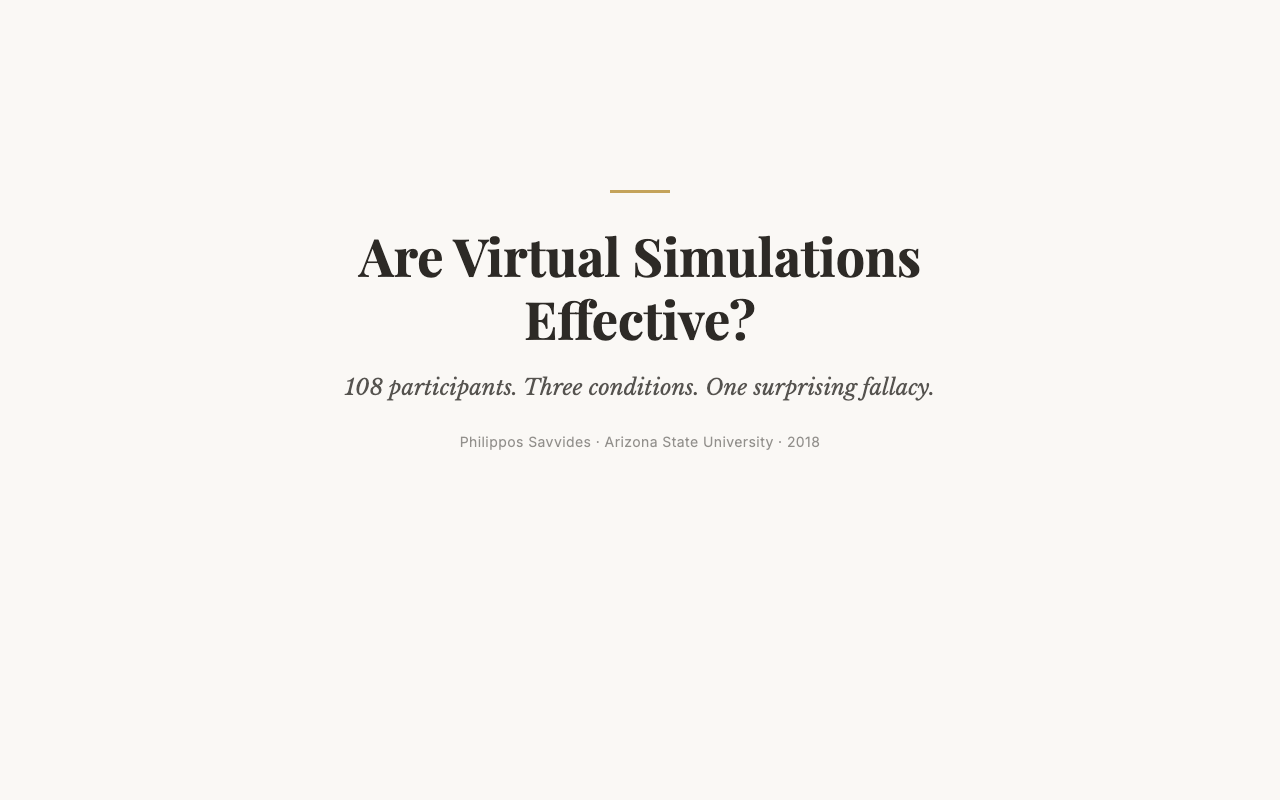
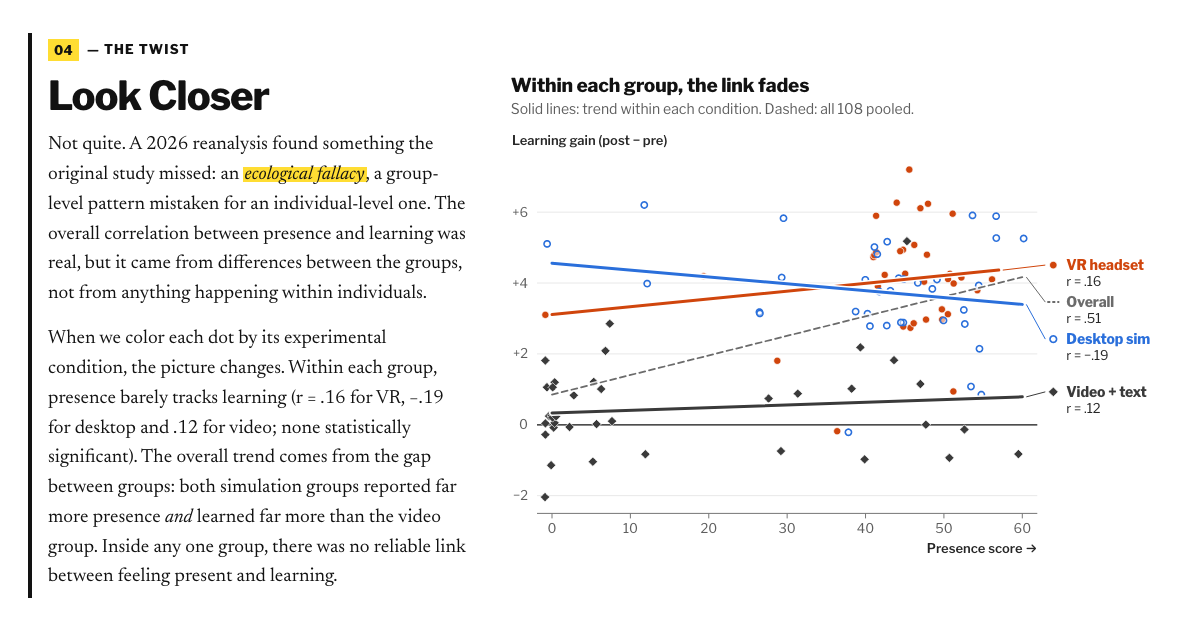
docs: v3.0.0 docs, CI test job, regenerated images
- CI: add a Playwright `test` job (Node 24, chromium + webkit, report uploaded on
  failure); lychee skips node_modules; the config writes an HTML report under CI
- README, HOW-IT-WAS-MADE, CLAUDE.md and CHANGELOG describe the Newsroom redesign
- scripts/screenshots.js renders docs/screenshot.png (1440x900) and
  docs/social-preview.png (1200x630) at step 4
- tests/repo.spec.js: image sizes, CI job, docs content, tracked-file hygiene and a
  dead-code sweep (CSS selectors, script.js functions)
- style.css: drop the unused h3 selector

diff --git a/tests/repo.spec.js b/tests/repo.spec.js
@@ -1,0 +1,163 @@
+// Release hygiene for v3.0.0 (spec §9, §8.2). Pure Node, no browser; tagged @once so the suite
+// runs it in a single project. Covers the regenerated images, the CI test job, the docs, the
+// dead-code sweep (CSS selectors and script.js functions) and the "no local planning files" rule.
+const { test, expect } = require('@playwright/test');
+const { execFileSync } = require('child_process');
+const fs = require('fs');
+const path = require('path');
+
+const ROOT = path.resolve(__dirname, '..');
+const read = (f) => fs.readFileSync(path.join(ROOT, f), 'utf8');
+
+/** Width and height from a PNG's IHDR chunk. */
+function pngSize(file) {
+  const b = fs.readFileSync(path.join(ROOT, file));
+  expect(b.subarray(1, 4).toString()).toBe('PNG');
+  return [b.readUInt32BE(16), b.readUInt32BE(20)];
+}
+
+/** The text of a top-level job in ci.yml (from "  name:" to the next job or the end). */
+function ciJob(name) {
+  const m = read('.github/workflows/ci.yml').match(new RegExp(`^  ${name}:\\n([\\s\\S]*?)(?=^  [\\w-]+:\\n|(?![\\s\\S]))`, 'm'));
+  expect(m, `ci.yml has a ${name} job`).not.toBeNull();
+  return m[1];
+}
+
+test.describe('release hygiene', { tag: '@once' }, () => {
+  test('docs images have the exact sizes (README screenshot, social preview)', () => {
+    expect(pngSize('docs/screenshot.png')).toEqual([1440, 900]);
+    expect(pngSize('docs/social-preview.png')).toEqual([1200, 630]);
+    expect(read('index.html')).toContain('https://savvides.github.io/dissertation/docs/social-preview.png');
+  });
+
+  test('CI has a test job and keeps vnu and lychee', () => {
+    const job = ciJob('test');
+    expect(job).toMatch(/runs-on: ubuntu-latest/);
+    expect(job).toMatch(/uses: actions\/checkout@v4/);
+    expect(job).toMatch(/uses: actions\/setup-node@v4/);
+    expect(job).toMatch(/node-version: 24/);
+    expect(job).toMatch(/cache: npm/);
+    expect(job).toMatch(/run: npm ci/);
+    expect(job).toMatch(/run: npx playwright install --with-deps chromium webkit/);
+    expect(job).toMatch(/run: npx playwright test/);
+    expect(job).toMatch(/uses: actions\/upload-artifact@v4/);
+    expect(job).toMatch(/if: failure\(\)/);
+    expect(job).toMatch(/path: playwright-report/);
+    expect(ciJob('validate-html')).toMatch(/vnu\.jar --errors-only index\.html/);
+    expect(ciJob('check-links')).toMatch(/lychee/);
+    expect(ciJob('check-links')).toMatch(/--exclude-path node_modules/);
+  });
+
+  test('README describes the 3.0.0 page, build and development workflow', () => {
+    const readme = read('README.md');
+    expect(readme).toMatch(/badge\/version-3\.0\.0-blue/);
+    expect(readme).not.toMatch(/version-2\.1\.1/);
+    expect(readme).toMatch(/!\[[^\]]+\]\(docs\/screenshot\.png\)/);
+    expect(readme).toMatch(/^## What You'll See$/m);
+    expect(readme).toMatch(/hero strip/i);
+    expect(readme).toMatch(/An Open Question[^\n]*(not significantly|raises, not one it confirms|hypothesis)/i);
+    expect(readme).toMatch(/readout/i);
+    expect(readme).toMatch(/^## Built With$/m);
+    expect(readme).toMatch(/D3\.js[^\n]*7\.9\.0[^\n]*self-hosted/i);
+    expect(readme).toMatch(/Newsreader/);
+    expect(readme).toMatch(/Libre Franklin/);
+    expect(readme).toMatch(/Playwright/);
+    expect(readme).toMatch(/^## Development$/m);
+    expect(readme).toMatch(/npm ci/);
+    expect(readme).toMatch(/npx playwright test/);
+    expect(readme).toMatch(/node scripts\/csv_to_js\.js/);
+  });
+
+  test('HOW-IT-WAS-MADE names the Newsroom direction and the review → corrections → redesign sequence', () => {
+    const how = read('HOW-IT-WAS-MADE.md');
+    expect(how).not.toMatch(/warm tones/i);
+    expect(how).toMatch(/\*\*Visual design\.\*\*[^\n]*Newsroom/);
+    expect(how).toMatch(/review[^\n]*correction[^\n]*redesign/i);
+  });
+
+  test('CLAUDE.md maps the new files and states the data.js rule', () => {
+    const doc = read('CLAUDE.md');
+    for (const f of ['`data.js`', '`vendor/', '`tests/', '`package.json`', '`playwright.config.js`']) expect(doc).toContain(f);
+    expect(doc).toMatch(/npx playwright test/);
+    expect(doc).toMatch(/npm ci/);
+    expect(doc).toMatch(/never hand-edit[^\n]*`data\.js`|`data\.js`[^\n]*never hand-edit/i);
+    expect(doc).not.toMatch(/inlined at the top of `script\.js`/);
+  });
+
+  test('CHANGELOG has a complete 3.0.0 entry and compare link', () => {
+    const log = read('CHANGELOG.md');
+    const entry = log.match(/^## \[3\.0\.0\][^\n]*\n([\s\S]*?)(?=^## \[)/m);
+    expect(entry, '3.0.0 section').not.toBeNull();
+    for (const h of ['Added', 'Changed', 'Removed', 'Fixed']) expect(entry[1]).toMatch(new RegExp(`^### ${h}$`, 'm'));
+    expect(log).toContain('[3.0.0]: https://github.com/savvides/dissertation/compare/v2.1.1...v3.0.0');
+    expect(log.indexOf('## [3.0.0]')).toBeLessThan(log.indexOf('## [2.1.1]'));
+  });
+
+  test('no local planning files are tracked', () => {
+    const tracked = execFileSync('git', ['ls-files'], { cwd: ROOT, encoding: 'utf8' }).split('\n');
+    expect(tracked.filter((f) => /^(docs\/superpowers|\.superpowers)\//.test(f))).toEqual([]);
+  });
+});
+
+test.describe('dead-code sweep', { tag: '@once' }, () => {
+  const html = read('index.html');
+  const js = read('script.js');
+  const css = read('style.css');
+
+  /** Class, id and attribute names used by rules outside @keyframes and @font-face. */
+  function selectorNames() {
+    const src = css.replace(/\/\*[\s\S]*?\*\//g, '');
+    const classes = new Set();
+    const ids = new Set();
+    const attrs = new Set();
+    let depth = 0;
+    let skipUntil = -1; // brace depth at which a skipped at-rule block ends
+    let start = 0;
+    for (let i = 0; i < src.length; i++) {
+      const c = src[i];
+      if (c === '{') {
+        const prelude = src.slice(start, i).trim();
+        if (skipUntil < 0 && /^@(-webkit-)?keyframes|^@font-face/.test(prelude)) skipUntil = depth;
+        else if (skipUntil < 0 && !prelude.startsWith('@')) {
+          const sel = prelude.replace(/"[^"]*"|'[^']*'/g, '""');
+          for (const m of sel.matchAll(/\[\s*([\w-]+)/g)) attrs.add(m[1]);
+          const bare = sel.replace(/\[[^\]]*\]/g, '');
+          for (const m of bare.matchAll(/\.([A-Za-z_][\w-]*)/g)) classes.add(m[1]);
+          for (const m of bare.matchAll(/#([A-Za-z_][\w-]*)/g)) ids.add(m[1]);
+        }
+        depth++;
+        start = i + 1;
+      } else if (c === '}') {
+        depth--;
+        if (depth === skipUntil) skipUntil = -1;
+        start = i + 1;
+      } else if (c === ';' && skipUntil < 0) start = i + 1;
+    }
+    return { classes, ids, attrs };
+  }
+
+  const word = (name) => new RegExp(`(^|[^\\w-])${name}($|[^\\w-])`);
+
+  test('every CSS class, id and attribute is in index.html or script.js', () => {
+    const { classes, ids, attrs } = selectorNames();
+    expect(classes.size).toBeGreaterThan(20);
+    const haystack = html + '\n' + js;
+    const missing = [
+      ...[...classes].filter((n) => !word(n).test(haystack)).map((n) => `.${n}`),
+      ...[...ids].filter((n) => !word(n).test(haystack)).map((n) => `#${n}`),
+      ...[...attrs].filter((n) => !haystack.includes(n)).map((n) => `[${n}]`),
+    ];
+    expect(missing, `selectors matching nothing: ${missing.join(' ')}`).toEqual([]);
+  });
+
+  test('every function in script.js is referenced somewhere other than its definition', () => {
+    // Comments don't count as references.
+    const code = js.replace(/\/\*[\s\S]*?\*\//g, '').replace(/^\s*\/\/.*$/gm, '');
+    const names = new Set();
+    for (const m of js.matchAll(/\bfunction\s+([A-Za-z_$][\w$]*)\s*\(/g)) names.add(m[1]);
+    for (const m of js.matchAll(/^\s*([A-Za-z_$][\w$]*)\s*:\s*function\b/gm)) names.add(m[1]);
+    expect(names.size).toBeGreaterThan(20);
+    const unused = [...names].filter((n) => (code.match(new RegExp(`(^|[^\\w$])${n.replace(/\$/g, '\\$')}(?![\\w$])`, 'g')) || []).length < 2);
+    expect(unused, `unreferenced functions: ${unused.join(' ')}`).toEqual([]);
+  });
+});

diff --git a/scripts/screenshots.js b/scripts/screenshots.js
@@ -1,0 +1,43 @@
+// Renders the two README/social images from the live page (dev-only; needs `npm ci` and
+// `npx playwright install chromium`). Both show step 4 ("Look Closer"), the page's turning point.
+//   docs/screenshot.png      1440×900
+//   docs/social-preview.png  1200×630 (the og:image size)
+// Usage: node scripts/screenshots.js
+const { chromium } = require('@playwright/test');
+const path = require('path');
+const { pathToFileURL } = require('url');
+
+const ROOT = path.resolve(__dirname, '..');
+const PAGE = pathToFileURL(path.join(ROOT, 'index.html')).href;
+
+const SHOTS = [
+  { file: 'docs/screenshot.png', width: 1440, height: 900 },
+  { file: 'docs/social-preview.png', width: 1200, height: 630 },
+];
+
+async function render(browser, { file, width, height }) {
+  // Reduced motion makes step changes land immediately, so the capture is deterministic.
+  const context = await browser.newContext({ viewport: { width, height }, deviceScaleFactor: 1, reducedMotion: 'reduce' });
+  const page = await context.newPage();
+  await page.goto(PAGE);
+  await page.evaluate(() => document.fonts.ready);
+  // Center step 4 on the viewport midline, where the page activates steps on wide screens.
+  await page.evaluate(() => {
+    const r = document.querySelector('.step[data-step="4"]').getBoundingClientRect();
+    window.scrollTo(0, r.top + window.scrollY + r.height / 2 - window.innerHeight / 2);
+  });
+  await page.waitForFunction(() => document.getElementById('story-figure').dataset.state === 'scatterByCondition');
+  await page.waitForTimeout(500);
+  await page.screenshot({ path: path.join(ROOT, file) });
+  await context.close();
+  console.log(`wrote ${file} (${width}×${height})`);
+}
+
+(async () => {
+  const browser = await chromium.launch();
+  try {
+    for (const shot of SHOTS) await render(browser, shot);
+  } finally {
+    await browser.close();
+  }
+})();

diff --git a/playwright.config.js b/playwright.config.js
@@ -45,7 +45,8 @@ module.exports = defineConfig({
   testDir: './tests',
   fullyParallel: true,
   retries: 0,
-  reporter: [['list']],
+  // CI also writes playwright-report/, which the workflow uploads when a run fails.
+  reporter: process.env.CI ? [['list'], ['html', { open: 'never' }]] : [['list']],
   use: { baseURL: 'http://localhost:4173' },
   webServer: {
     command: 'node tests/serve.js',

diff --git a/style.css b/style.css
@@ -46,7 +46,7 @@ body {
     -webkit-font-smoothing: antialiased;
 }
 
-h1, h2, h3 { margin: 0; color: var(--ink); font-family: var(--font-ui); font-weight: 800; text-wrap: balance; }
+h1, h2 { margin: 0; color: var(--ink); font-family: var(--font-ui); font-weight: 800; text-wrap: balance; }
 p { margin: 0; }
 em { font-style: italic; }
 

diff --git a/README.md b/README.md
@@ -1,13 +1,13 @@
 ![CI](https://github.com/savvides/dissertation/actions/workflows/ci.yml/badge.svg)
 ![Deploy](https://github.com/savvides/dissertation/actions/workflows/deploy.yml/badge.svg)
 ![License: CC BY 4.0](https://img.shields.io/badge/License-CC_BY_4.0-lightgrey.svg)
-![Version](https://img.shields.io/badge/version-2.1.1-blue.svg)
+![Version](https://img.shields.io/badge/version-3.0.0-blue.svg)
 
 # Teaching Science Lab Safety: Are Virtual Simulations Effective?
 
 An interactive data story exploring VR, learning, and a surprising statistical fallacy.
 
-![The ecological fallacy reveal — dots colorized by condition show the overall correlation disappears within each group](docs/screenshot.png)
+![Step 4, "Look Closer": dots colored and shaped by condition, with a separate trend line per group that sits nearly flat while the pooled dashed line climbs](docs/screenshot.png)
 
 The 2018 PhD study (n=108) asked whether VR headsets improve learning. VR did not significantly beat a desktop version of the same simulation (Cohen's d = 0.23, p = .33; the study was too small to detect a difference that size). Both simulation groups far outperformed a video-and-handout control (d > 2.4), though that comparison also changed the content and the session length. A 2026 reanalysis added something the original paper missed: the presence-learning correlation is an ecological fallacy — real at the group level, gone within each condition.
 
@@ -15,12 +15,16 @@ The 2018 PhD study (n=108) asked whether VR headsets improve learning. VR did no
 
 ## What You'll See
 
+The page opens on a **hero strip**: 108 marks in three rows (35 VR headset, 36 desktop, 37 video and text), one mark per participant. From there, a sticky chart redraws as you scroll through five steps, then hands over to an interactive Lab.
+
 1. **The Experiment** — 108 participants randomly assigned to VR, desktop simulation, or video/text control
 2. **The Promise** — Simulations work, but VR doesn't significantly beat desktop
 3. **The Deeper Question** — Presence as the theorized mechanism, with a convincing overall correlation
 4. **The Twist** — The ecological fallacy reveal: color the dots by condition and the correlation disappears
-5. **An Open Question** — The price of novelty? VR's cognitive load ran highest, but not significantly
-6. **The Evidence Lab** — An interactive scatter plot you can drive yourself: toggle overall vs. by-condition views, swap the y-axis between learning gains and cognitive load, and show or hide the regression lines to replay the fallacy on demand
+5. **An Open Question** — The price of novelty? VR's cognitive load ran highest, but not significantly. The page frames novelty cost as a hypothesis the study raises, not one it confirms.
+6. **The Evidence Lab** — An interactive scatter plot you can drive yourself: toggle overall vs. by-condition views, swap the y-axis between learning gains and cognitive load, and show or hide the trend lines to replay the fallacy on demand. Hover, tap or focus any dot (or arrow through them with the keyboard) and a readout shows that participant's values; a summary sentence under the chart restates the current view from the computed statistics.
+
+Every number on the page is computed from `data.csv` by a script and stored in `data.js`; the browser never calculates a statistic.
 
 ## The Data
 
@@ -35,9 +39,22 @@ This entire site was built through conversation with [Claude Code](https://claud
 
 ## Built With
 
-- [D3.js](https://d3js.org/) v7 for data visualization
-- Vanilla CSS with an editorial design system
-- No build tools — static HTML that works from `file://`
+- [D3.js](https://d3js.org/) 7.9.0, self-hosted in `vendor/` (no CDN), redraws every chart live at its container's width
+- Vanilla CSS with the "Newsroom" design system: Libre Franklin for display and UI, Newsreader for reading text
+- A [Playwright](https://playwright.dev/) test suite (Chromium and WebKit, six viewports from 320px to 1440px, plus axe-core accessibility and contrast checks)
+- No build tools. Static HTML that works from `file://`
+
+## Development
+
+```
+npm ci                      # dev-only tooling: Playwright and axe-core
+npx playwright install chromium webkit
+npx playwright test         # the full suite; it serves the repo itself
+node scripts/csv_to_js.js   # regenerate data.js after changing data.csv
+node scripts/screenshots.js # regenerate docs/screenshot.png and docs/social-preview.png
+```
+
+`data.js` is generated; never edit it by hand.
 
 <details>
 <summary><strong>Full Academic Details</strong></summary>

diff --git a/CHANGELOG.md b/CHANGELOG.md
@@ -5,6 +5,41 @@ All notable changes to this project will be documented in this file.
 The format is based on [Keep a Changelog](https://keepachangelog.com/en/1.0.0/),
 and this project adheres to [Semantic Versioning](https://semver.org/spec/v2.0.0.html).
 
+## [3.0.0] - 2026-10-24
+
+The story, its order and the corrected 2.1.1 copy are unchanged. The page is rebuilt around them.
+
+### Added
+- **Newsroom design**: A white page with Libre Franklin for headlines and labels and Newsreader for reading text. Each condition has its own color and mark shape (VR a filled circle, desktop an open ring, video and text a diamond) and is labeled directly on the charts, so no chart relies on color alone.
+- **Hero strip**: 108 marks in three rows (35, 36 and 37), one per participant.
+- **Chart captions**: Each step has a headline and a dek above its chart, and each chart has a text description that updates for screen readers.
+- **Responsive layout**: Charts redraw at their measured width from 320px to 1920px. On phones the chart sits in a sticky band above the text; on short landscape phones it pins to the left beside it.
+- **Evidence Lab readout**: Hover, tap or focus a dot (or arrow through them with the keyboard) to see that participant's values in a readout below the chart, plus a summary sentence generated from the statistics.
+- **`data.js`**: Generated from `data.csv` by `scripts/csv_to_js.js` with the points, labels and every statistic the page shows (means, 95% confidence intervals, correlations and p values). The browser calculates nothing.
+- **Test suite**: Playwright tests in Chromium and WebKit at six viewports plus a `file://` run, including axe-core accessibility, contrast and color-vision checks, interrupted-transition stress cases, keyboard-only use of the Lab and a d3-unavailable fallback. CI runs them in a new `test` job.
+- **`scripts/screenshots.js`**: Regenerates `docs/screenshot.png` and `docs/social-preview.png` from the live page.
+- **README and docs**: A Development section, an updated "What You'll See" and "Built With", and a file map and command list in `CLAUDE.md`.
+
+### Changed
+- **d3**: Now self-hosted (`vendor/d3.v7.9.0.min.js`, with its license) instead of loaded from jsDelivr.
+- **Charts**: Redrawn live with D3 on every step, with named transitions so a hover can't interrupt a step change, and with reduced-motion support.
+- **Evidence Lab**: Rebuilt as three segmented controls (View, Y-axis, Trendlines) with a cognitive-load axis that starts at 0.
+- **Images**: `docs/screenshot.png` is now 1440×900 and `docs/social-preview.png` is exactly 1200×630, both showing step 4.
+- **Docs**: The visual-design step in `HOW-IT-WAS-MADE.md` describes the Newsroom direction.
+
+### Removed
+- **Old design**: The warm gold palette and serif display type, the reading progress bar, and the floating hover tooltips.
+- **Inlined data**: The 108-row `globalData` array that was inlined at the top of `script.js`.
+- **jsDelivr script tag** and its Subresource Integrity hash.
+
+### Fixed
+- **Step activation** on short and narrow viewports, in both directions, in Chromium and WebKit.
+- **Interrupted transitions**: A hover during a step change no longer leaves stale dots, wrong fills or a stale tooltip.
+- **Horizontal overflow** from tooltips and the rightmost Lab dot.
+- **Fixed-size charts**: Text stays at least 12px and each chart fits its container after a resize or rotation, including at 320px.
+- **d3 failure**: If d3 can't load, the text and coda stay readable and the chart areas show a note instead of erroring.
+- **Accessibility**: Focus rings on every interactive element, 44px control targets, text contrast of at least 4.5:1, landmark structure, and a text alternative for every chart.
+
 ## [2.1.1] - 2026-10-24
 
 ### Fixed
@@ -60,6 +95,7 @@ and this project adheres to [Semantic Versioning](https://semver.org/spec/v2.0.0
 - **Original Dissertation**: PhD Dissertation "Teaching Science Lab Safety: Are Virtual Simulations Effective?" (Savvides, 2018).
 - **Literature Review (2018)**: Citations and analysis covering VR in science education through 2018.
 
+[3.0.0]: https://github.com/savvides/dissertation/compare/v2.1.1...v3.0.0
 [2.1.1]: https://github.com/savvides/dissertation/compare/v2.1.0...v2.1.1
 [2.1.0]: https://github.com/savvides/dissertation/compare/v2.0.0...v2.1.0
 [2.0.0]: https://github.com/savvides/dissertation/releases/tag/v2.0.0

diff --git a/CLAUDE.md b/CLAUDE.md
@@ -15,14 +15,29 @@ This repository contains Philippos Savvides's 2018 PhD dissertation from Arizona
 - `README.md` — Project overview, study summary, literature review addendum summary, and methodological retrospective
 - `HOW-IT-WAS-MADE.md` — Process write-up explaining how the interactive site was built with Claude Code
 - `CHANGELOG.md` — Versioned release notes for the interactive site (Keep a Changelog format, SemVer)
-- `index.html` / `style.css` / `script.js` — Single-page interactive scrollytelling site (D3.js v7, vanilla CSS, no build tools). Sections: scroll-driven narrative (`#chart-container`), personal coda (`#coda`), interactive Evidence Lab (`#evidence-lab`), and portfolio footer (`#about`).
-- `scripts/csv_to_js.js` — Regenerates the `globalData` array inlined at the top of `script.js` from `data.csv`; rerun it if `data.csv` changes
+- `index.html` / `style.css` / `script.js` — Single-page interactive scrollytelling site in the "Newsroom" design (D3.js v7, vanilla CSS, classic scripts, no build tools). Sections: hero with a participant strip (`#hero`), scroll-driven narrative with a sticky chart (`#story`), personal coda (`#coda`), interactive Evidence Lab (`#lab`), and portfolio footer (`#about`). `script.js` must not throw when `window.d3` is missing, and every number it shows comes from `window.STUDY`.
+- `data.js` — Generated from `data.csv`: `window.STUDY` with the points, labels and precomputed statistics. **Never hand-edit it.** Change `data.csv` or `scripts/csv_to_js.js`, then run `node scripts/csv_to_js.js` (or `npm run data`); a test fails if `data.js` is stale.
+- `vendor/` — `d3.v7.9.0.min.js` (self-hosted, byte-identical to jsDelivr's `d3@7.9.0/dist/d3.min.js`) and its ISC license
+- `scripts/csv_to_js.js` — The generator for `data.js`
+- `scripts/screenshots.js` — Renders `docs/screenshot.png` (1440×900) and `docs/social-preview.png` (1200×630) at step 4; rerun it after visual changes
+- `package.json` / `package-lock.json` / `playwright.config.js` — Dev-only tooling (Playwright 1.64.0 and axe-core), nothing the site loads
+- `tests/` — Playwright suite: narrative steps, layout and overflow, resize, interrupted transitions, the Lab (keyboard and readout), axe-core, contrast and color-vision checks, d3-unavailable and `file://` resilience, content regression, data freshness, and release hygiene (docs, CI, dead-code sweep). `tests/serve.js` is the dependency-free static server it starts.
 - `LICENSE` — CC BY 4.0
-- `docs/` — README screenshot and social preview image
-- `.github/workflows/` — `ci.yml` (vnu HTML validation, lychee link check) and `deploy.yml` (GitHub Pages, runs after CI passes)
+- `docs/` — README screenshot and social preview image (regenerated by `scripts/screenshots.js`)
+- `.github/workflows/` — `ci.yml` (vnu HTML validation, lychee link check, Playwright `test` job) and `deploy.yml` (GitHub Pages, runs after CI passes)
+
+## Commands
+
+- `npm ci` — install the dev tooling (once per checkout)
+- `npx playwright install chromium webkit` — download the test browsers (once)
+- `npx playwright test` — run the whole suite (Chromium and WebKit at six viewports, plus a `file://` project). Run it before every commit that touches the site.
+- `npx playwright test tests/lab.spec.js --project=chromium-1440x900` — one file in one project
+- `node scripts/csv_to_js.js` — regenerate `data.js` after `data.csv` changes
+- `node scripts/screenshots.js` — regenerate the two docs images
 
 ## Key Context
 
+- Never hand-edit `data.js`; it is generated from `data.csv` (see Commands). The page shows only numbers that come from `window.STUDY`
 - The original dissertation was published December 2018; all original citations are pre-2019
 - The markdown version preserves the original text verbatim; new content goes only in the addendum section
 - A 2026 reanalysis found the presence-learning correlation is an ecological fallacy (significant overall, non-significant within conditions) — the README retrospective documents this

diff --git a/HOW-IT-WAS-MADE.md b/HOW-IT-WAS-MADE.md
@@ -28,15 +28,15 @@ The whole site was built through iterative conversation with Claude Code. No han
 
 4. **Interactive charts.** The site uses D3.js to animate scatter plots and bar charts that respond to scrolling. The key moment is when dots get colorized by condition and the overall correlation visually falls apart.
 
-5. **Visual design.** An editorial design system with warm tones, serif typography, and generous whitespace. The goal was to feel like a magazine feature, not a dashboard.
+5. **Visual design.** A "Newsroom" direction: a white page, Libre Franklin for headlines and labels, Newsreader for the reading text, a distinct color and mark shape for each condition, and direct labels on the chart instead of a legend. The goal was to feel like an explainer in a newspaper, not a dashboard.
 
 6. **The Evidence Lab.** After the scrollytelling narrative, an interactive playground lets readers drive the same chart themselves — toggle overall vs. by-condition, swap the y-axis between learning gains and cognitive load, show or hide regression lines. The fallacy stops being a thing they watched and becomes a thing they can reproduce.
 
 7. **A personal coda and footer.** A first-person reflection closes the narrative ("Eight years later, I found a fallacy hiding in my own data."), and a three-column footer points to this write-up, my LinkedIn, and the open dataset.
 
-8. **Iteration.** Many rounds of conversation, refining the narrative, polishing the charts, adjusting the pacing. The AI handled the code. I handled the taste.
+8. **Iteration.** Many rounds of conversation, refining the narrative, polishing the charts, adjusting the pacing. The AI handled the code. I handled the taste. That included a full review of the first version, a round of corrections to claims the data didn't support, and then the Newsroom redesign described above.
 
-The entire thing is static HTML. No build tools, no server, no database. It's three static files plus a charting library, and it deploys on GitHub Pages for free.
+The entire thing is static HTML. No build tools, no server, no database. It's four static files plus a charting library, and it deploys on GitHub Pages for free.
 
 ## Try It Yourself
 
